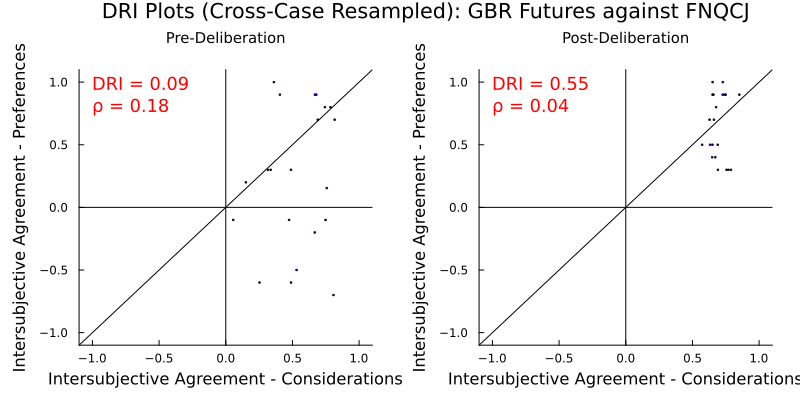
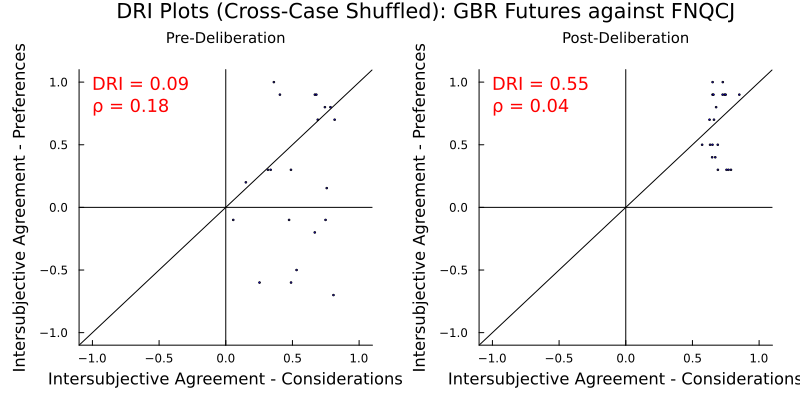
Correct terminology resample => shuffle

Changed region(s): [[0.125, 0.0, 0.9375, 0.06]]

diff --git a/docs/validity-test/README.md b/docs/validity-test/README.md
@@ -9,7 +9,7 @@ The **Deliberative Reason Index (DRI)**, as proposed by Niemeyer, Veri, Dryzek, 
 
 ## 2. What DRI Measures  
 
-- **Conceptual aim:** DRI is designed to capture *intersubjective consistency*—the idea that two participants who similarly rank a set of “consideration” statements should also similarly rank preferences, and vice versa.  
+- **Conceptual aim:** DRI is designed to capture intersubjective consistency as the degree to which participants who similarly rank a set of “consideration” statements also similarly rank preferences, and vice versa.  
 - **Why it matters:** Unlike measures of mere preference convergence or procedural quality, DRI focuses on the coherence between *reasons* and *conclusions*, a core ideal in deliberative‐democratic theory.
 
 ## 3. Brief Method: Calculating DRI  
@@ -24,7 +24,7 @@ The **Deliberative Reason Index (DRI)**, as proposed by Niemeyer, Veri, Dryzek, 
 To test whether high DRI is unique to high intersubjective consistency, we apply the same calculation to three contrived data scenarios:  
 
 - **A. Purely random data**.  
-- **B. Resampled real data** (considerations and preferences randomly shuffled across participants).  
+- **B. Shuffled real data** (considerations and preferences randomly shuffled across participants).  
 - **C. Mismatched topics** (considerations on Issue X paired with preferences on Issue Y).  
 
 Under all three scenarios DRI can reach levels exceeding 0.5 even absent any logical link between considerations and preferences. These results are fully [reproducible](https://github.com/social-protocols/dri-in-polis).
@@ -33,7 +33,7 @@ Under all three scenarios DRI can reach levels exceeding 0.5 even absent any log
 
 #### 5.1 Pure noise still hugs the diagonal.  
 
-Imagine 100 people each randomly ranking 10 reasons and 10 preferences -- logic whatsoever.  
+Imagine 100 people each randomly ranking 10 reasons and 10 preferences -- no logic whatsoever.  
 
 With totally random ranking data, spearman ρs will be normally distributed around 0. This means that when you plot Spearman ρs for considerations (x-axis) against preferences (y-axis), the cloud of points clusters around (0,0), which lies on the 45° diagonal. Hence the distance to the diagonal is small on average and the DRI is positive, as illustrated below.
 ![Figure 1. IC plot, 10×10 random data (DRI = 0.23)](./random-diffuse.png)
@@ -55,13 +55,13 @@ Adding statements that everybody agrees on shifts the cluster upwards and to the
 
 #### 5.2: Keep the shape, break the logic.  
 
-Take some actual post‐deliberation survey data and shuffle everybody’s preferences (each individual gets the preference of a randomly selected) while leaving their consideration rankings intact.  
+Shuffle everybody’s preferences (each individual gets the preference of a different randomly selected individual) while leaving their consideration rankings intact.
 
 The marginal distributions (the “shape”) stay the same, but any genuine alignment between reasons and preferences is destroyed. 
 
 Yet in the case below (the GBR future study) the DRI only falls from **0.65** to about **0.63**.
 
-![Figure 2. Actual vs. resampled GBR Futures (DRI 0.49 → 0.34)](./resampled-against-standard-18.0.png)
+![Figure 2. Actual vs. shuffled GBR Futures (DRI 0.49 → 0.34)](./shuffled-against-standard-18.0.png)
 
 **Objection again:** “Okay, but the DRI is high because there is consistency in overall agreement levels.”
 
@@ -82,7 +82,7 @@ Pre-deliberation DRI of 0.09 jumps to 0.55 post deliberation.
 |-------------------|---------|--------------------|---------------|------------------------|
 | Random (10×10)    | 100     | 10 × 10            | 0.23          | Pure noise             |
 | Random (100×100)  | 100     | 100 × 100          | 0.77          | Tighter clustering     |
-| Resampled GBR Futures   | 7     | 35 × 7             | 0.63          | Permuted preferences   |
+| Shuffled GBR Futures   | 7     | 35 × 7             | 0.63          | Permuted preferences   |
 | Franken GBR→FNQCJ | 7      | 35 × 5             | 0.55          | Cross-topic pairing    |
 
 In all of these experiments, preferences are drawn **randomly** from some distribution -- meaning there is no possible logic linking rankings of considerations to preferences.
@@ -97,16 +97,16 @@ The cluster will be near the diagonal whenever the horizontal mean is approximat
 This can happen spuriously with:
 
 1. **totally random data**, because random Spearman correlations concentrate around (0,0), and  
-2. corresponding levels of **overall agreement** on considerations and preferences (e.g. resampled or cross-topic data), even when no logic ties them together.  
+2. corresponding levels of **overall agreement** on considerations and preferences (e.g. shuffled or cross-topic data), even when no logic ties them together.  
 
 Although genuine intersubjective consistency can also contribute to a high DRI, DRI cannot on its own distinguish between intersubjective consistency and corresponding overall agreement.
 
 
 ### 7. Genuine Intersubjective Consistency
 
-However, not all high DRI values are spurious. For example in the Fremantle Bridge case the high DRI can't be explained away so easily. Unlike in the resampled GBR Futures experiment or the Frankenstudy, the DRI of **falls** significantly to (0.34 ↦ 0.06) when the logical link between consideration and preferences is broken via resampling. A high Pearson's ρ of .69 adds further evidence of intersubjective consistency. 
+However, not all high DRI values are spurious. For example in the Fremantle Bridge case the high DRI can't be explained away so easily. Unlike in the shuffled GBR Futures experiment or the Frankenstudy, the DRI **falls** significantly to (0.34 ↦ 0.06) when the logical link between consideration and preferences is broken via shuffling. A high Pearson's ρ of .69 adds further evidence of intersubjective consistency. 
 
-![Figure 2. Actual vs. resampled Fremantle Bridge](./resampled-vs-standard-pre-post-12.0.png)
+![Figure 2. Actual vs. shuffled Fremantle Bridge](./shuffled-vs-standard-pre-post-12.0.png)
 
 
 ## 8. Conclusions & Further Research
